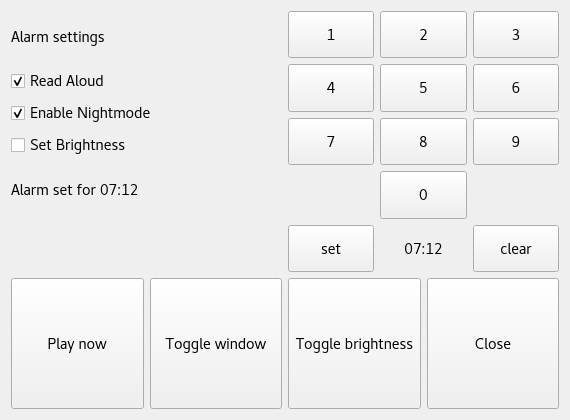
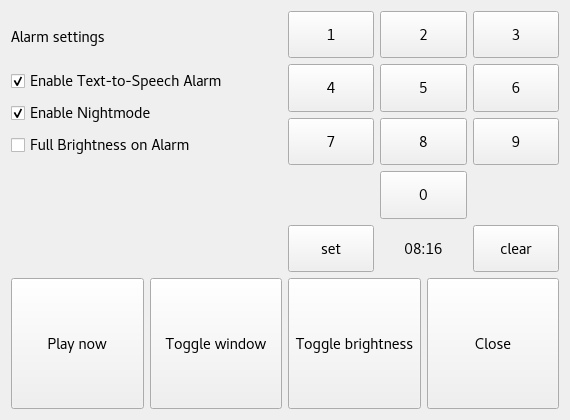
Update documentation

diff --git a/configs/README.md b/configs/README.md
@@ -1,72 +1,70 @@
 
 ## Alarm configuration
-Alarm content can be configured by editing `alarmpi.config`.
-The file specifies which components of the alarm are enabled and which text-to-speech (TTS) engine should be used, if any.
+Alarm content can be configured by editing `alarmpi.config`. This configuration file specifies which components of the alarm are enabled and which text-to-speech (TTS) engine should be used, if any.
 
 ### alarm.config description
 
 **[main]**  
-* **readaloud=0**
- * Disables TTS. The contents of the enabled sections will still be printed to stdout and a beeping sound effect will play as the alarm.
+* **readaloud**
+  * When set to 0 disables TTS. The contents of the enabled sections will still be printed to stdout and a beeping sound effect will play as the alarm.
+  * Can also be toggled from the settings window.
 * **nthost**
- * Determines a url to test for network connectivity. While many of the alarm components rely on API calls, an alarm should play even when the network is down. In this case a beeping sound effect will play.
+  * Determines a url to test for network connectivity. While many of the alarm components rely on API calls, an alarm should play even when the network is down. In this case a beeping sound effect will play.
 * **end**
- * An ending greeting to be used by the TTS client after all components, apart from radio stream, have been processed.
+  * An ending greeting to be used by the TTS client after all components, apart from radio stream, have been processed.
 
 **[alarm]**  
-* **nightmode_offset**
- * Number of hours before alarm time to label as _nightmode_. During nightmode the screen will automatically blank after a short while of touching the screen.
-* **set_brightness**
- * Whether to set screen brightness to full when the alarm triggers.
+* **nightmode_offset**  
+  * Number of hours before alarm time to label as _nightmode_. During nightmode the screen will automatically blank after a short while of touching the screen. Useful for quickly checking the time during the night.
+  * Nightmode can also be toggled from the settings window.
+* **set_brightness**  
+  * When enabled, screen brightness is set to full when the alarm triggers.
+  * Can also be toggled from the settings window.
 
 * **Note:** both of these settings only take effect on a Raspberry Pi
 
 **[greeting], [openweathermap], [BBC_news]**  
-  * These are the three main content sections determining actual content of the alarm.
+  These are the three main content sections determining actual content of the alarm.
   * `handler` points to a module in the `/handlers` directory responsible for creating the content.
 
   * **[openweathermap]** needs some additional configuration including an API key to openweathermap.org and a cityid for the city whose weather to forecast. See https://openweathermap.org/appid for registering for an API key and http://bulk.openweathermap.org/sample/ for cityid codes.
-   * API key should be placed in a simple json file of
-   ```
-   {
-     "key": API_KEY
-   }
-   ```
-   The file should then be pointed to by the `key_file` option in the configuration.
-   * Disabled by default
+    * API key should be placed in a simple json file of
+      ```
+      {
+        "key": API_KEY
+      }
+      ```
+      The file should then be pointed to by the `key_file` option in the configuration.
 
 **Note:** content sections are parsed in the order they appear in the configuration. Therefore the greeting should come first.
 
 
-#### TTS engines  
+**TTS engines**  
 Three TTS engines are supported:  
 
 **[google_gcp_tts]**  
-Google Cloud Text-to-Speech engine. This provides the most human-like speech, but requires some additional setup. As this is a Google Cloud platform API, it requires a Google Cloud project with billing enabled.
+  * Google Cloud Text-to-Speech engine. This provides the most human-like speech, but requires some additional setup. As this is a Google Cloud platform API, it requires a Google Cloud project with billing enabled.
 
-Follow the quick start guide in https://cloud.google.com/text-to-speech/docs/quickstart-protocol to setup a project. After creating and downloading a service account key, specify the path to your key as the `key_file` option
+  * Follow the quick start guide in https://cloud.google.com/text-to-speech/docs/quickstart-protocol to setup a project. After creating and downloading a service account key, specify the path to your key as the `key_file` option
 
-While this is a paid API, there is a free tier of 1 million characters per month. This should easily cover the alarm's needs: a single run of the script generates about 1100 characters worth of text; running the script once per day therefore only generates a total of some 33 000 characters. See https://cloud.google.com/text-to-speech/pricing and https://cloud.google.com/text-to-speech/quotas for more information.
+  * While this is a paid API, there is a free tier of 1 million characters per month. This should easily cover the alarm's needs: a single run of the script generates about 1100 characters worth of text; running the script once per day therefore only generates a total of some 33 000 characters. See https://cloud.google.com/text-to-speech/pricing and https://cloud.google.com/text-to-speech/quotas for more information.
   * Disabled by default
 
 **[google_translate_tts]**  
-Google Translate Text-to-Speech engine. This uses an undocumented and unofficial API used in Google Translate. Has a limit of 200 characters per requests which results in noticeable pauses between chunks of text. Google may change or prevent using this API at any time.
+  * Google Translate Text-to-Speech engine. This uses an undocumented and unofficial API used in Google Translate. Has a limit of 200 characters per requests which results in noticeable pauses between chunks of text. Google may change or prevent using this API at any time.
   * This is the default enabled choice
 
 **[festival_tts]**  
-Festival is a general purpose TTS system. Does not require an internet access and provides by far the most robotic voice.
-
+  * Festival is a general purpose TTS system. Does not require an internet access and provides by far the most robotic voice.
+  * Disabled by default
 
 **Notes:**
  * If more than one TTS engine are enabled, the first one will be used.
  * If all TTS engines are disabled but **readaloud=1** is set, Festival will be used.
- * If TTS feature is diabled with **readaloud=0**, a beeping sound effect will be played as the alarm.
+ * When **readaloud=0** is set, TTS is disabled and a beeping sound effect will be played as the alarm.
 
 **[radio]**  
-Determines the url to an online radio stream to play (if any). Uses the `mplayer` command line movie player to play the stream. The stream is played after all TTS content has been processed.
-
-If enabled, the UI's _radio_ button can also be used to play the stream.
- * radio feature is disabled if no url is provided.
+Determines command line arguments, including the url of the radio stream, to be passed to `mplayer`. The stream is played after all TTS content has been processed.
 
 **Note:** The radio stream plays in a separate process from the Python process running the alarm. While the UI's _radio_ and _close_ buttons take care of terminating the process, a separate `stop.sh` shell script can also be used to terminate both processes. This is useful if the alarm is run in headless mode.
 
@@ -76,7 +74,7 @@ This enables the two polling features of the main window. When enabled
   2. the next departing trains from Espoo train station is shown on the left. Data is fetched from Finnish Transport agency's DigiTraffic API, see https://www.digitraffic.fi/en/railway-traffic/. This is largely a hardcoded feature to serve my own use case.
 Both polling features are disabled by default.
 
-### Using a custom configuration
+## Using a custom configuration
 You can either modify the provided configuration file `alarm.config` or create a new file and pass that to `alarm_builder.py` and `main.py` via a command line argument, eg.
 ```
 python main.py my_config.config
